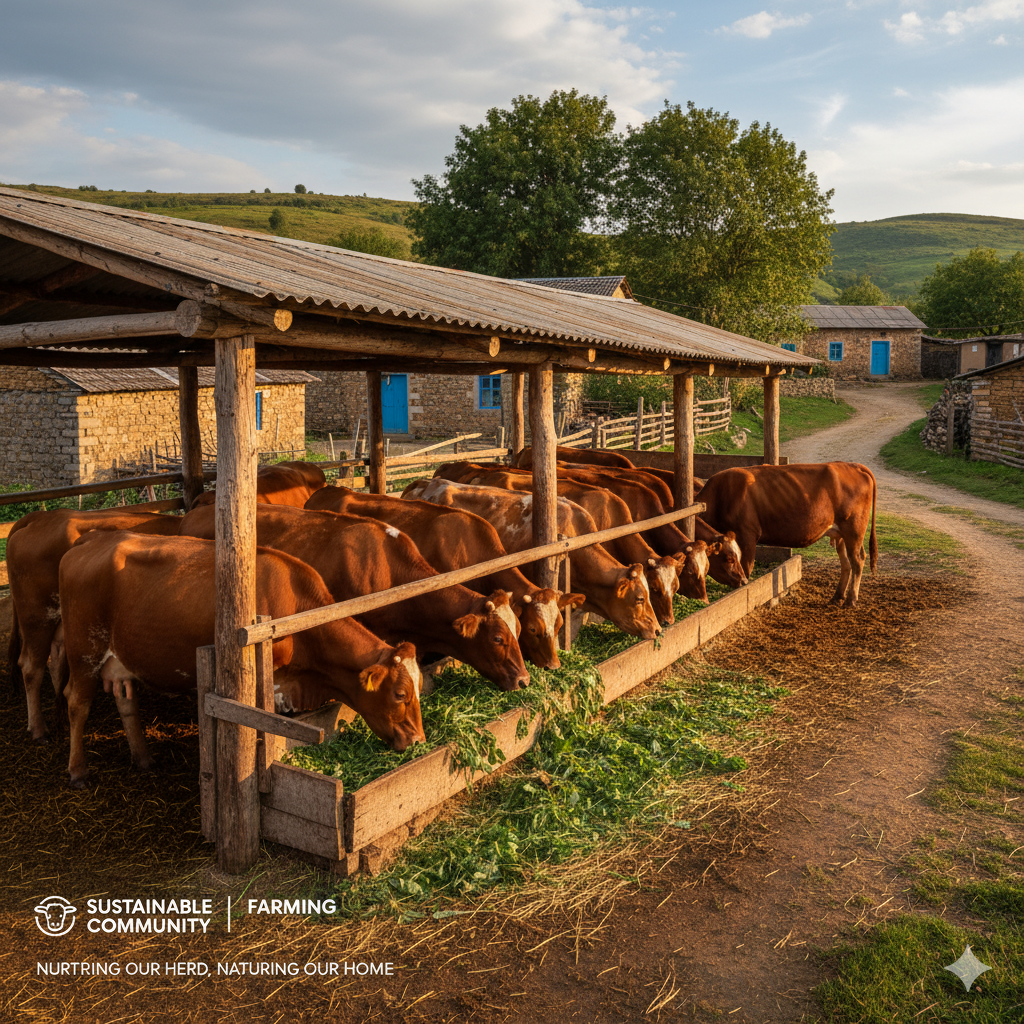
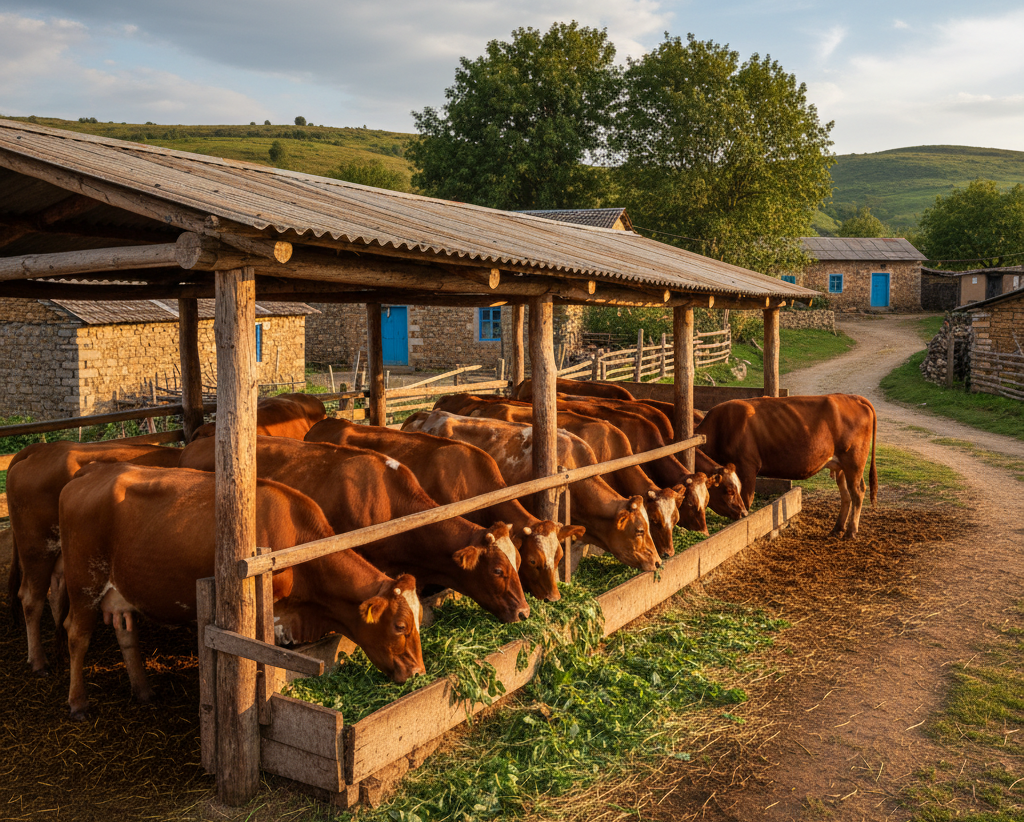
fix: footer section remove br tag

diff --git a/components/Footer.tsx b/components/Footer.tsx
@@ -53,9 +53,14 @@ export default function Footer() {
           <div>
             <h4 className="font-display font-semibold mb-4">{t('footer_contact_info')}</h4>
             <div className="flex items-start gap-3 text-sm">
-              <MapPin className="w-4 h-4 text-muted-foreground mt-0.5 flex-shrink-0" />
+              <MapPin className="w-4 h-4 text-blue-500 mt-0.5 flex-shrink-0" />
               <p className="text-white">
-                {t('footer_address')}
+                {t('footer_address').split('\n').map((line, idx) => (
+                  <span key={idx}>
+                    {line}
+                    {idx !== t('footer_address').split('\n').length - 1 && <br />}
+                  </span>
+                ))}
               </p>
             </div>
           </div>